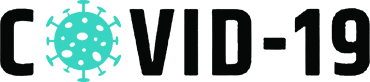
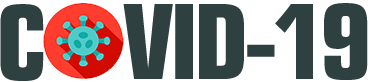
update style

diff --git a/src/components/Cards/Cards.jsx b/src/components/Cards/Cards.jsx
@@ -12,9 +12,11 @@ const Info = ({ data: { confirmed, recovered, deaths, lastUpdate } }) => {
 
   return (
     <div className={styles.container}>
-      <Grid container spacing={3} justify="center">
-        <Grid item xs={12} md={3} component={Card} className={cx(styles.card, styles.infected)}>
-          <CardContent>
+      <Grid  container spacing={3} justify="center">
+        <Grid  item xs={12} md={3} component={Card} style={{
+        backgroundColor: 'rgba(146, 60, 142, 0.2)',
+      }}  className={cx(styles.card, styles.infected)}>
+          <CardContent >
             <Typography color="textSecondary" gutterBottom>
               Infected
             </Typography>
@@ -29,7 +31,9 @@ const Info = ({ data: { confirmed, recovered, deaths, lastUpdate } }) => {
             </Typography>
           </CardContent>
         </Grid>
-        <Grid item xs={12} md={3} component={Card} className={cx(styles.card, styles.recovered)}>
+        <Grid item xs={12} md={3} component={Card} style={{
+        backgroundColor: 'rgba(87, 253, 122, 0.2)',
+      }} className={cx(styles.card, styles.recovered)}>
           <CardContent>
             <Typography color="textSecondary" gutterBottom>
               Recovered
@@ -45,7 +49,9 @@ const Info = ({ data: { confirmed, recovered, deaths, lastUpdate } }) => {
             </Typography>
           </CardContent>
         </Grid>
-        <Grid item xs={12} md={3} component={Card} className={cx(styles.card, styles.deaths)}>
+        <Grid item xs={12} md={3} component={Card} style={{
+        backgroundColor: 'rgba(215, 38, 49, 0.2)',
+      }} className={cx(styles.card, styles.deaths)}>
           <CardContent>
             <Typography color="textSecondary" gutterBottom>
               Deaths

diff --git a/src/App.js b/src/App.js
@@ -5,6 +5,7 @@ import { fetchData } from './api/';
 import styles from './App.module.css';
 
 import image from './images/image.png';
+import { Button } from '@material-ui/core';
 
 class App extends React.Component {
   state = {
@@ -32,7 +33,7 @@ class App extends React.Component {
         <img className={styles.image} src={image} alt="COVID-19" />
         <Cards data={data} />
         <CountryPicker handleCountryChange={this.handleCountryChange} />
-        <Chart data={data} country={country} /> 
+        <Button href="https://github.com/SalarHoushvand/">By S.Houshvand</Button>
       </div>
     );
   }

diff --git a/public/index.html b/public/index.html
@@ -3,11 +3,11 @@
 
 <head>
   <meta charset="utf-8" />
-  <link rel="icon" href="%PUBLIC_URL%/favicon.ico" />
+  <link rel="icon" href="%PUBLIC_URL%/favicon.png" />
   <meta name="viewport" content="width=device-width, initial-scale=1" />
   <meta name="theme-color" content="#000000" />
-  <meta name="description" content="Corona Virus Tracker" />
-  <title>Corona Virus Tracker</title>
+  <meta name="description" content="COVID-19 Tracker" />
+  <title>COVID-19 Tracker</title>
 </head>
 
 <body>

diff --git a/src/components/Cards/Cards.module.css b/src/components/Cards/Cards.module.css
@@ -3,6 +3,7 @@
   flex-direction: column;
   align-items: center;
   margin: 50px 0;
+ 
 }
 
 .card {
@@ -10,7 +11,8 @@
 }
 
 .infected {
-  border-bottom: 10px solid rgba(0, 0, 255, 0.5);
+  border-bottom: 10px solid rgba(146, 60, 142, 0.5);
+
 }
 
 .recovered{
@@ -26,3 +28,4 @@
     margin: 2% 0 !important;
   }
 }
+

diff --git a/src/components/CountryPicker/CountryPicker.module.css b/src/components/CountryPicker/CountryPicker.module.css
@@ -1,4 +1,8 @@
 .formControl {
   width: 30%;
   margin-bottom: 30px !important;
+  background-color: rgba(98, 243, 233, 0.5);
+  border-radius: 5px;
+  text-align: center;
+  text-decoration: none;
 }

diff --git a/src/App.module.css b/src/App.module.css
@@ -1,5 +1,5 @@
 body {
-  background-color: rgb(250, 250,250);
+  background-color: #c2ebea;
 }
 
 .container {
